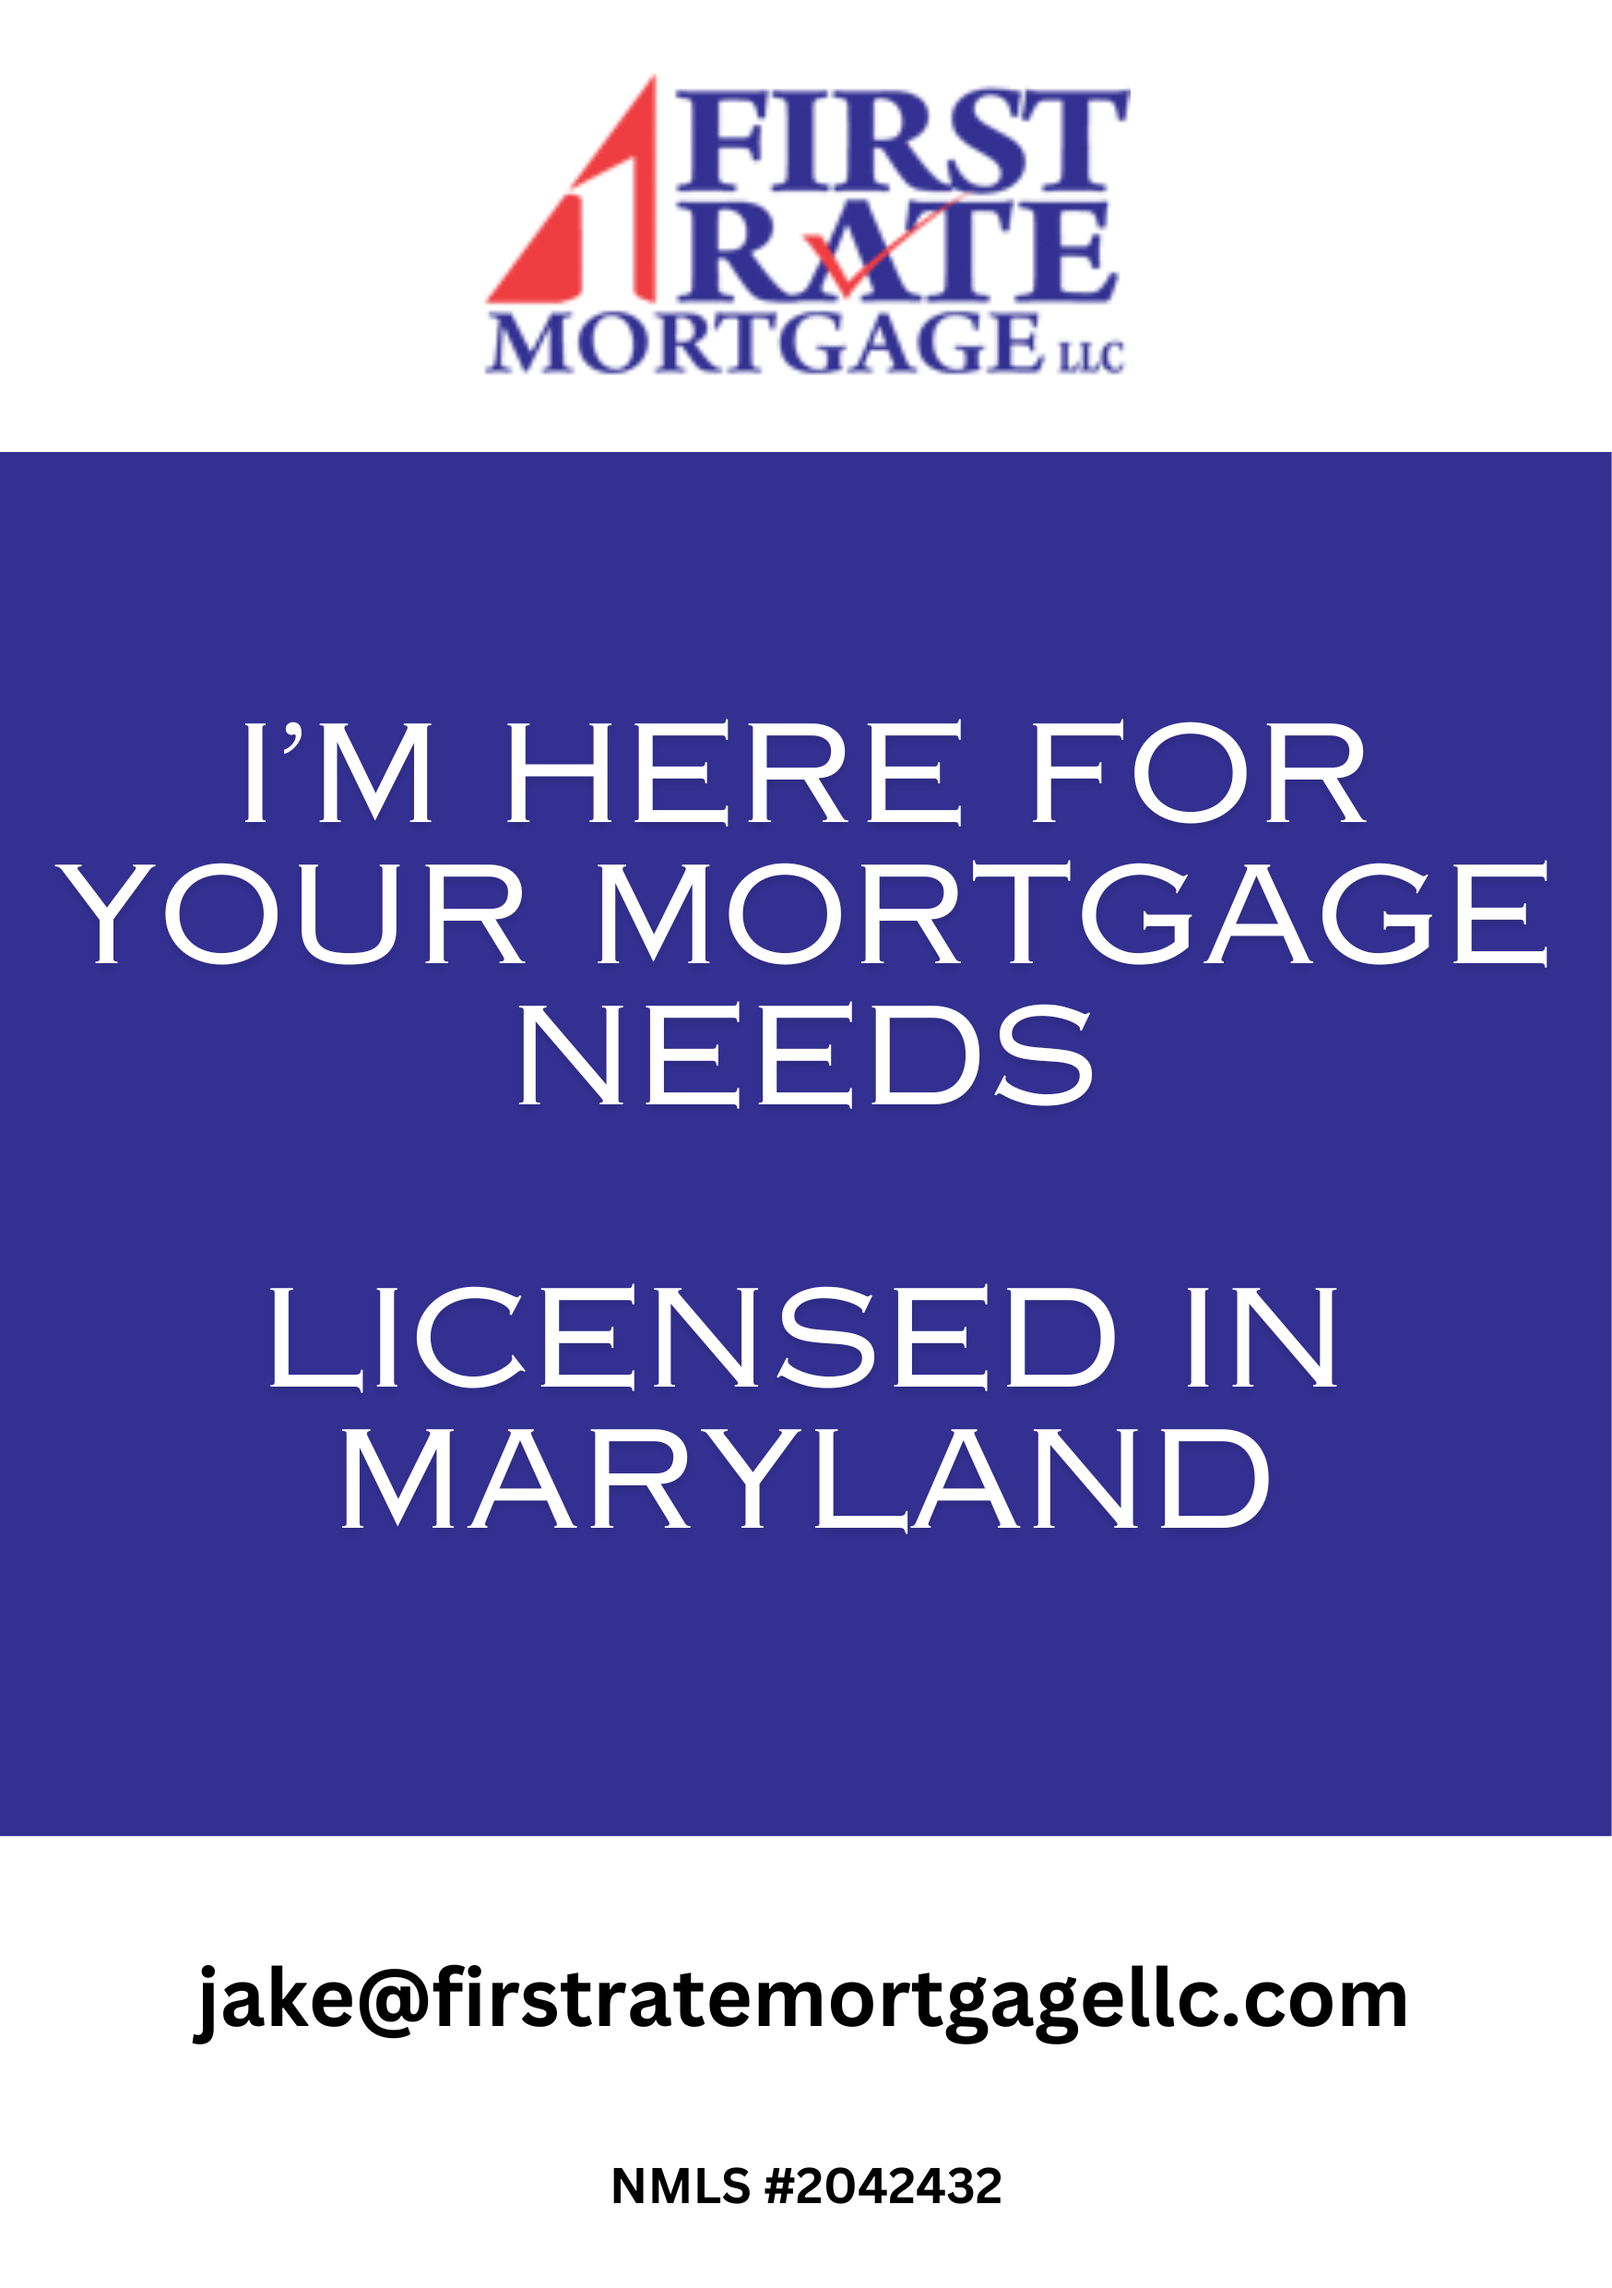
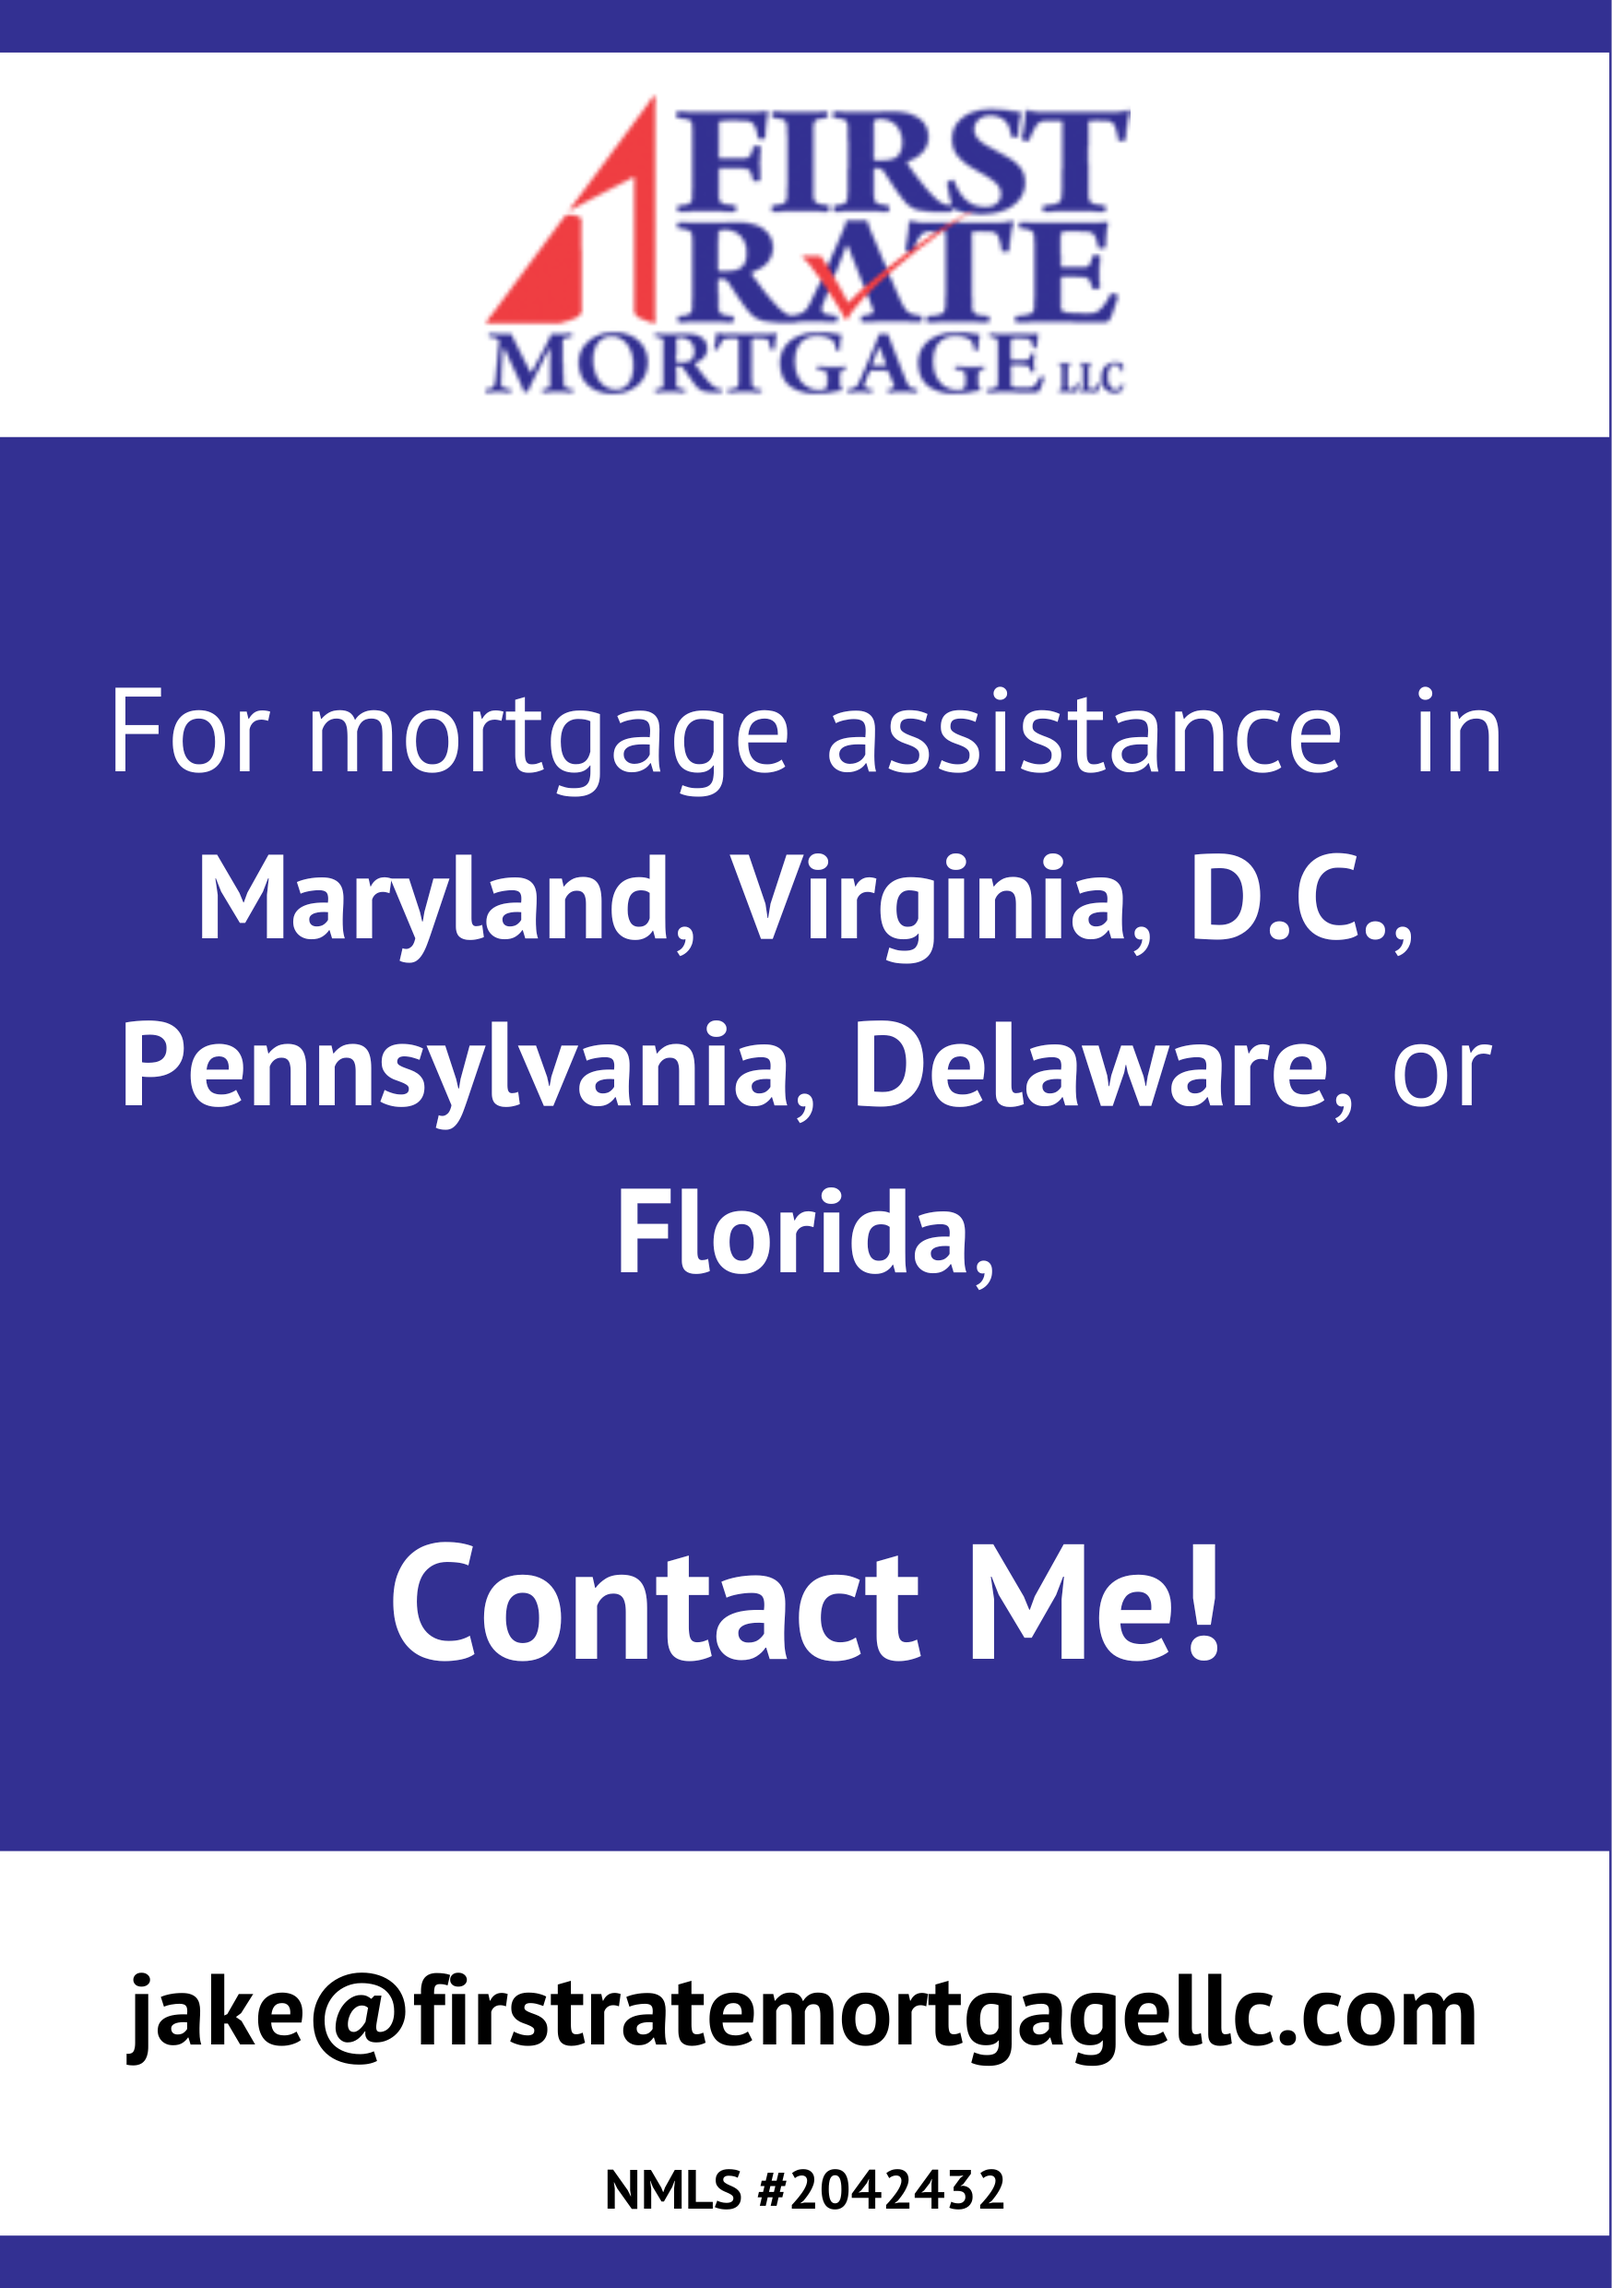
Updated personal Ad

diff --git a/_includes/sidebar.html b/_includes/sidebar.html
@@ -4,7 +4,7 @@
         {% include newsletter.html %}
     </div>
     <div class="sidebar-section">
-        <h5><span>Contact me for any mortgage assistance</span></h5>
+        <!-- <h5><span>Contact me for any mortgage assistance</span></h5> -->
         <img src="{{site.baseurl}}/assets/images/ad.png">
     </div>
 </div>
